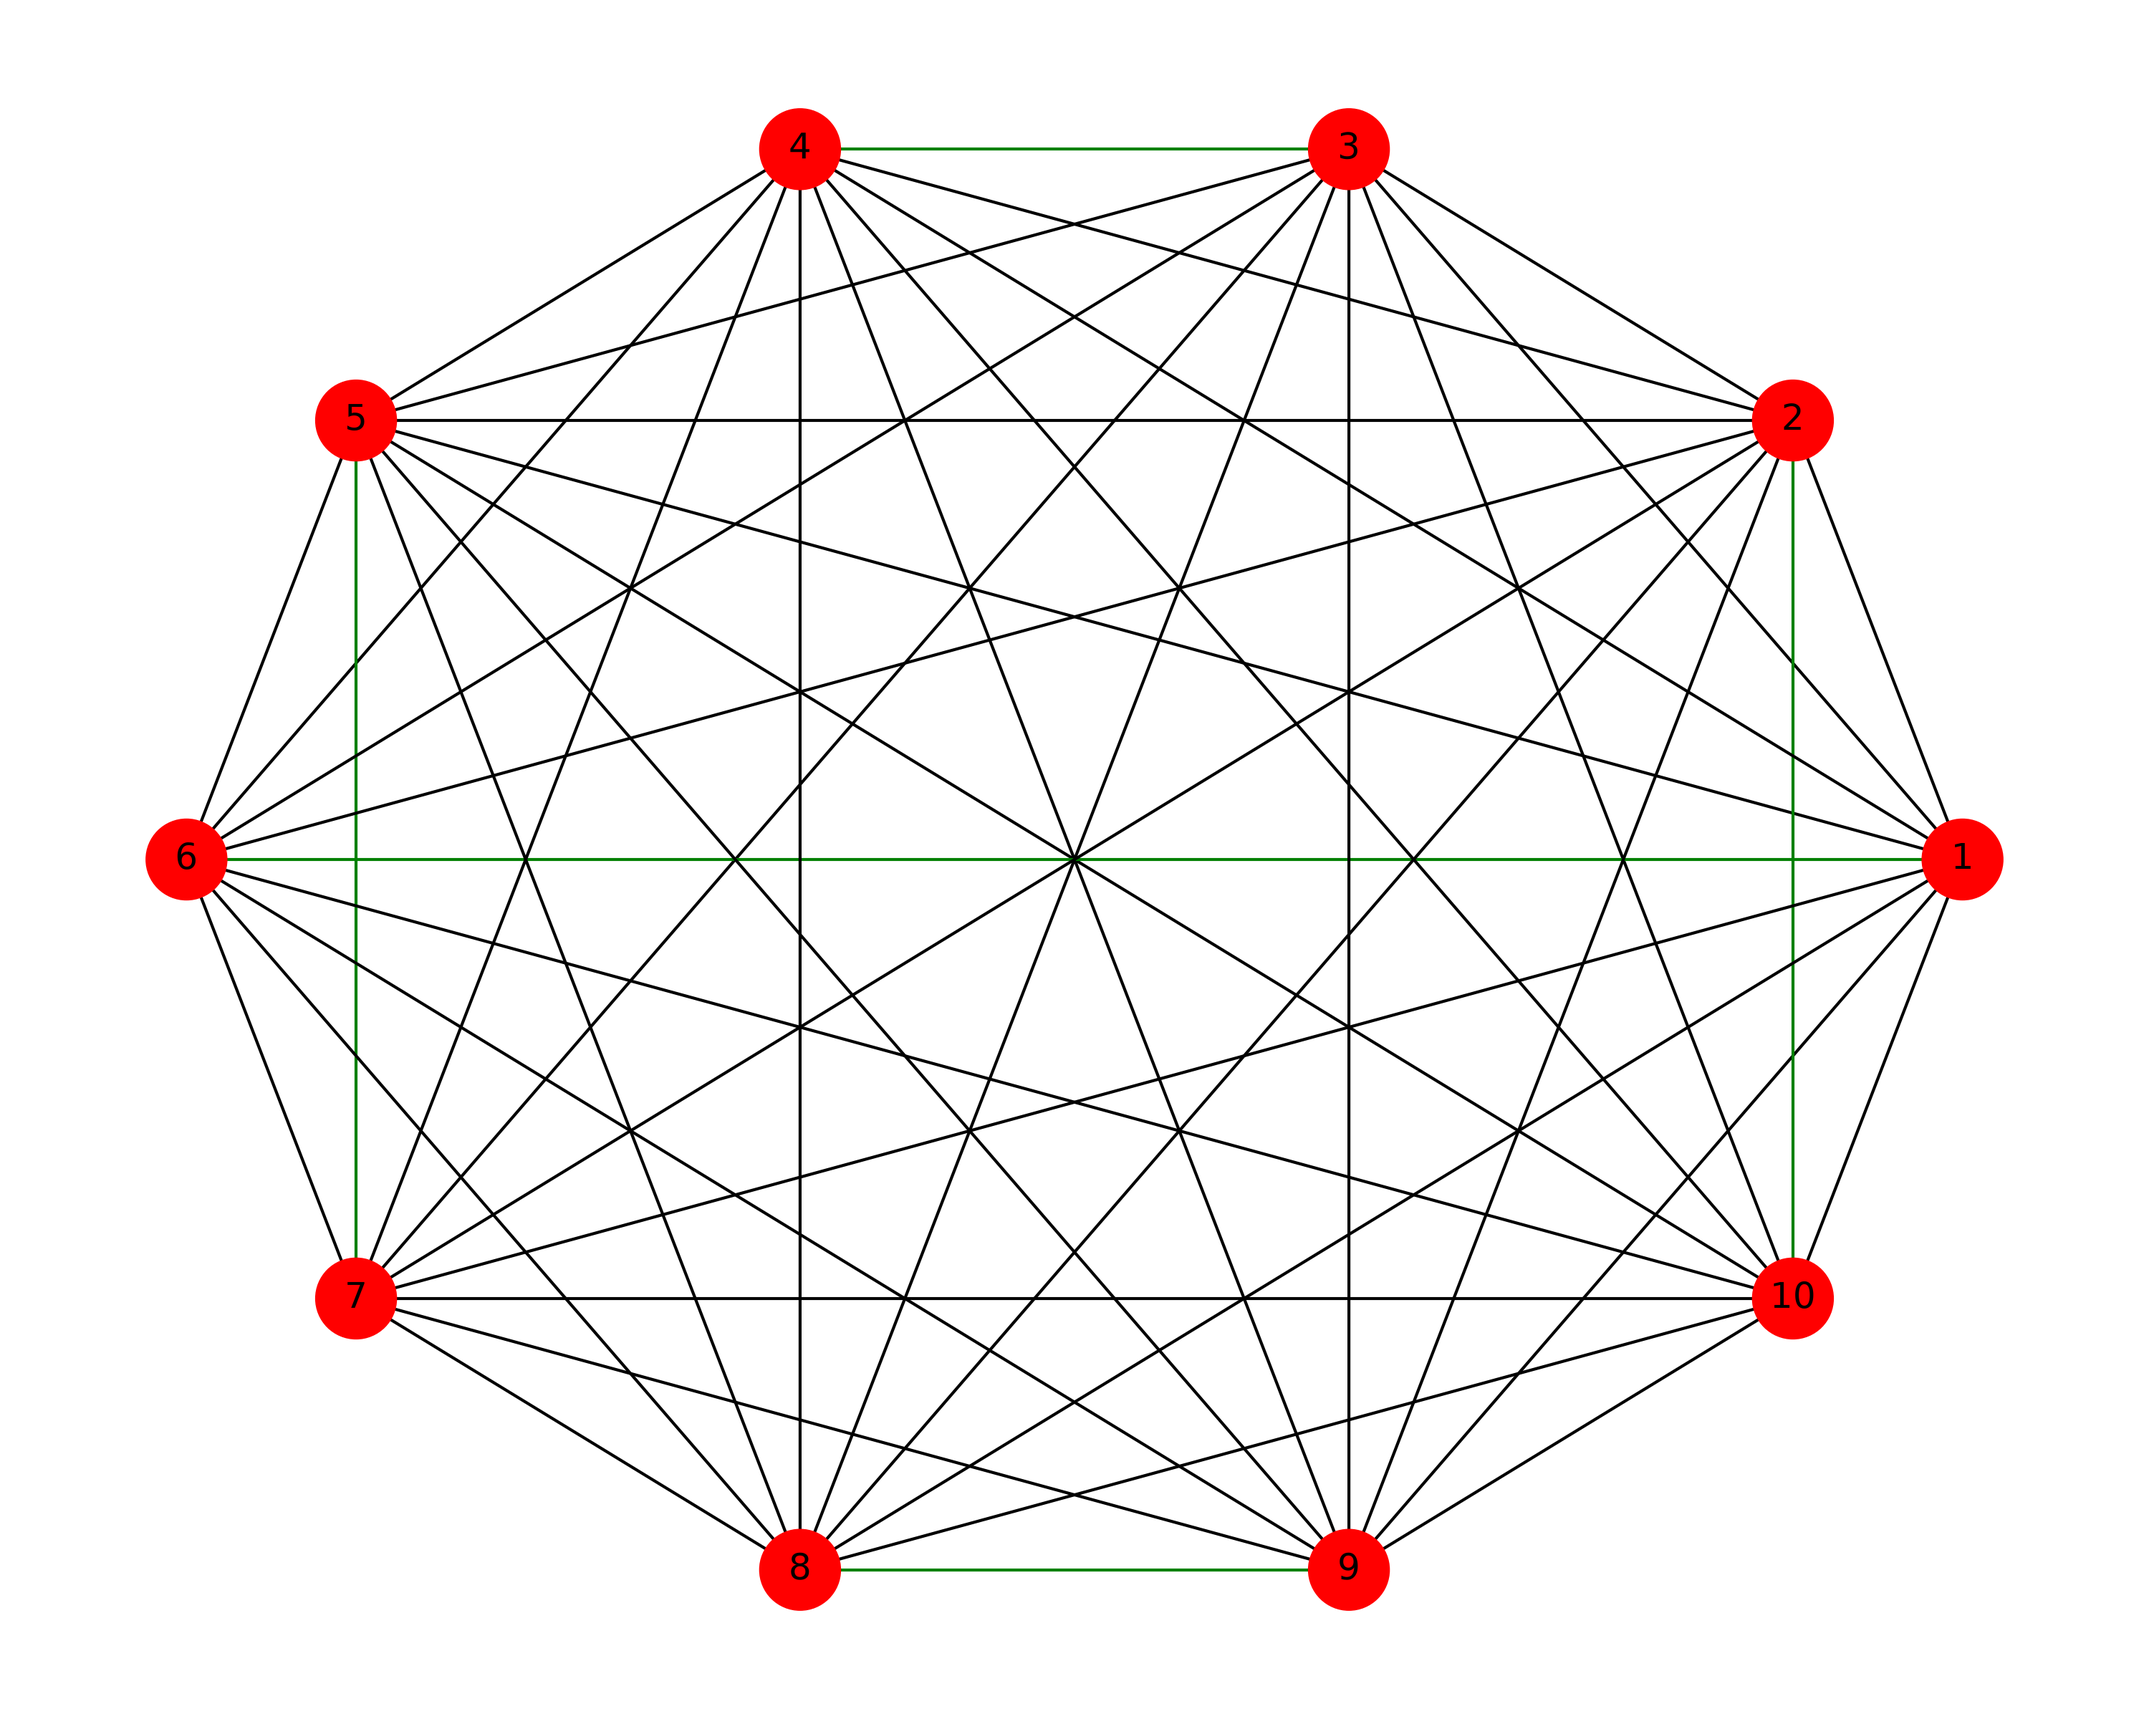
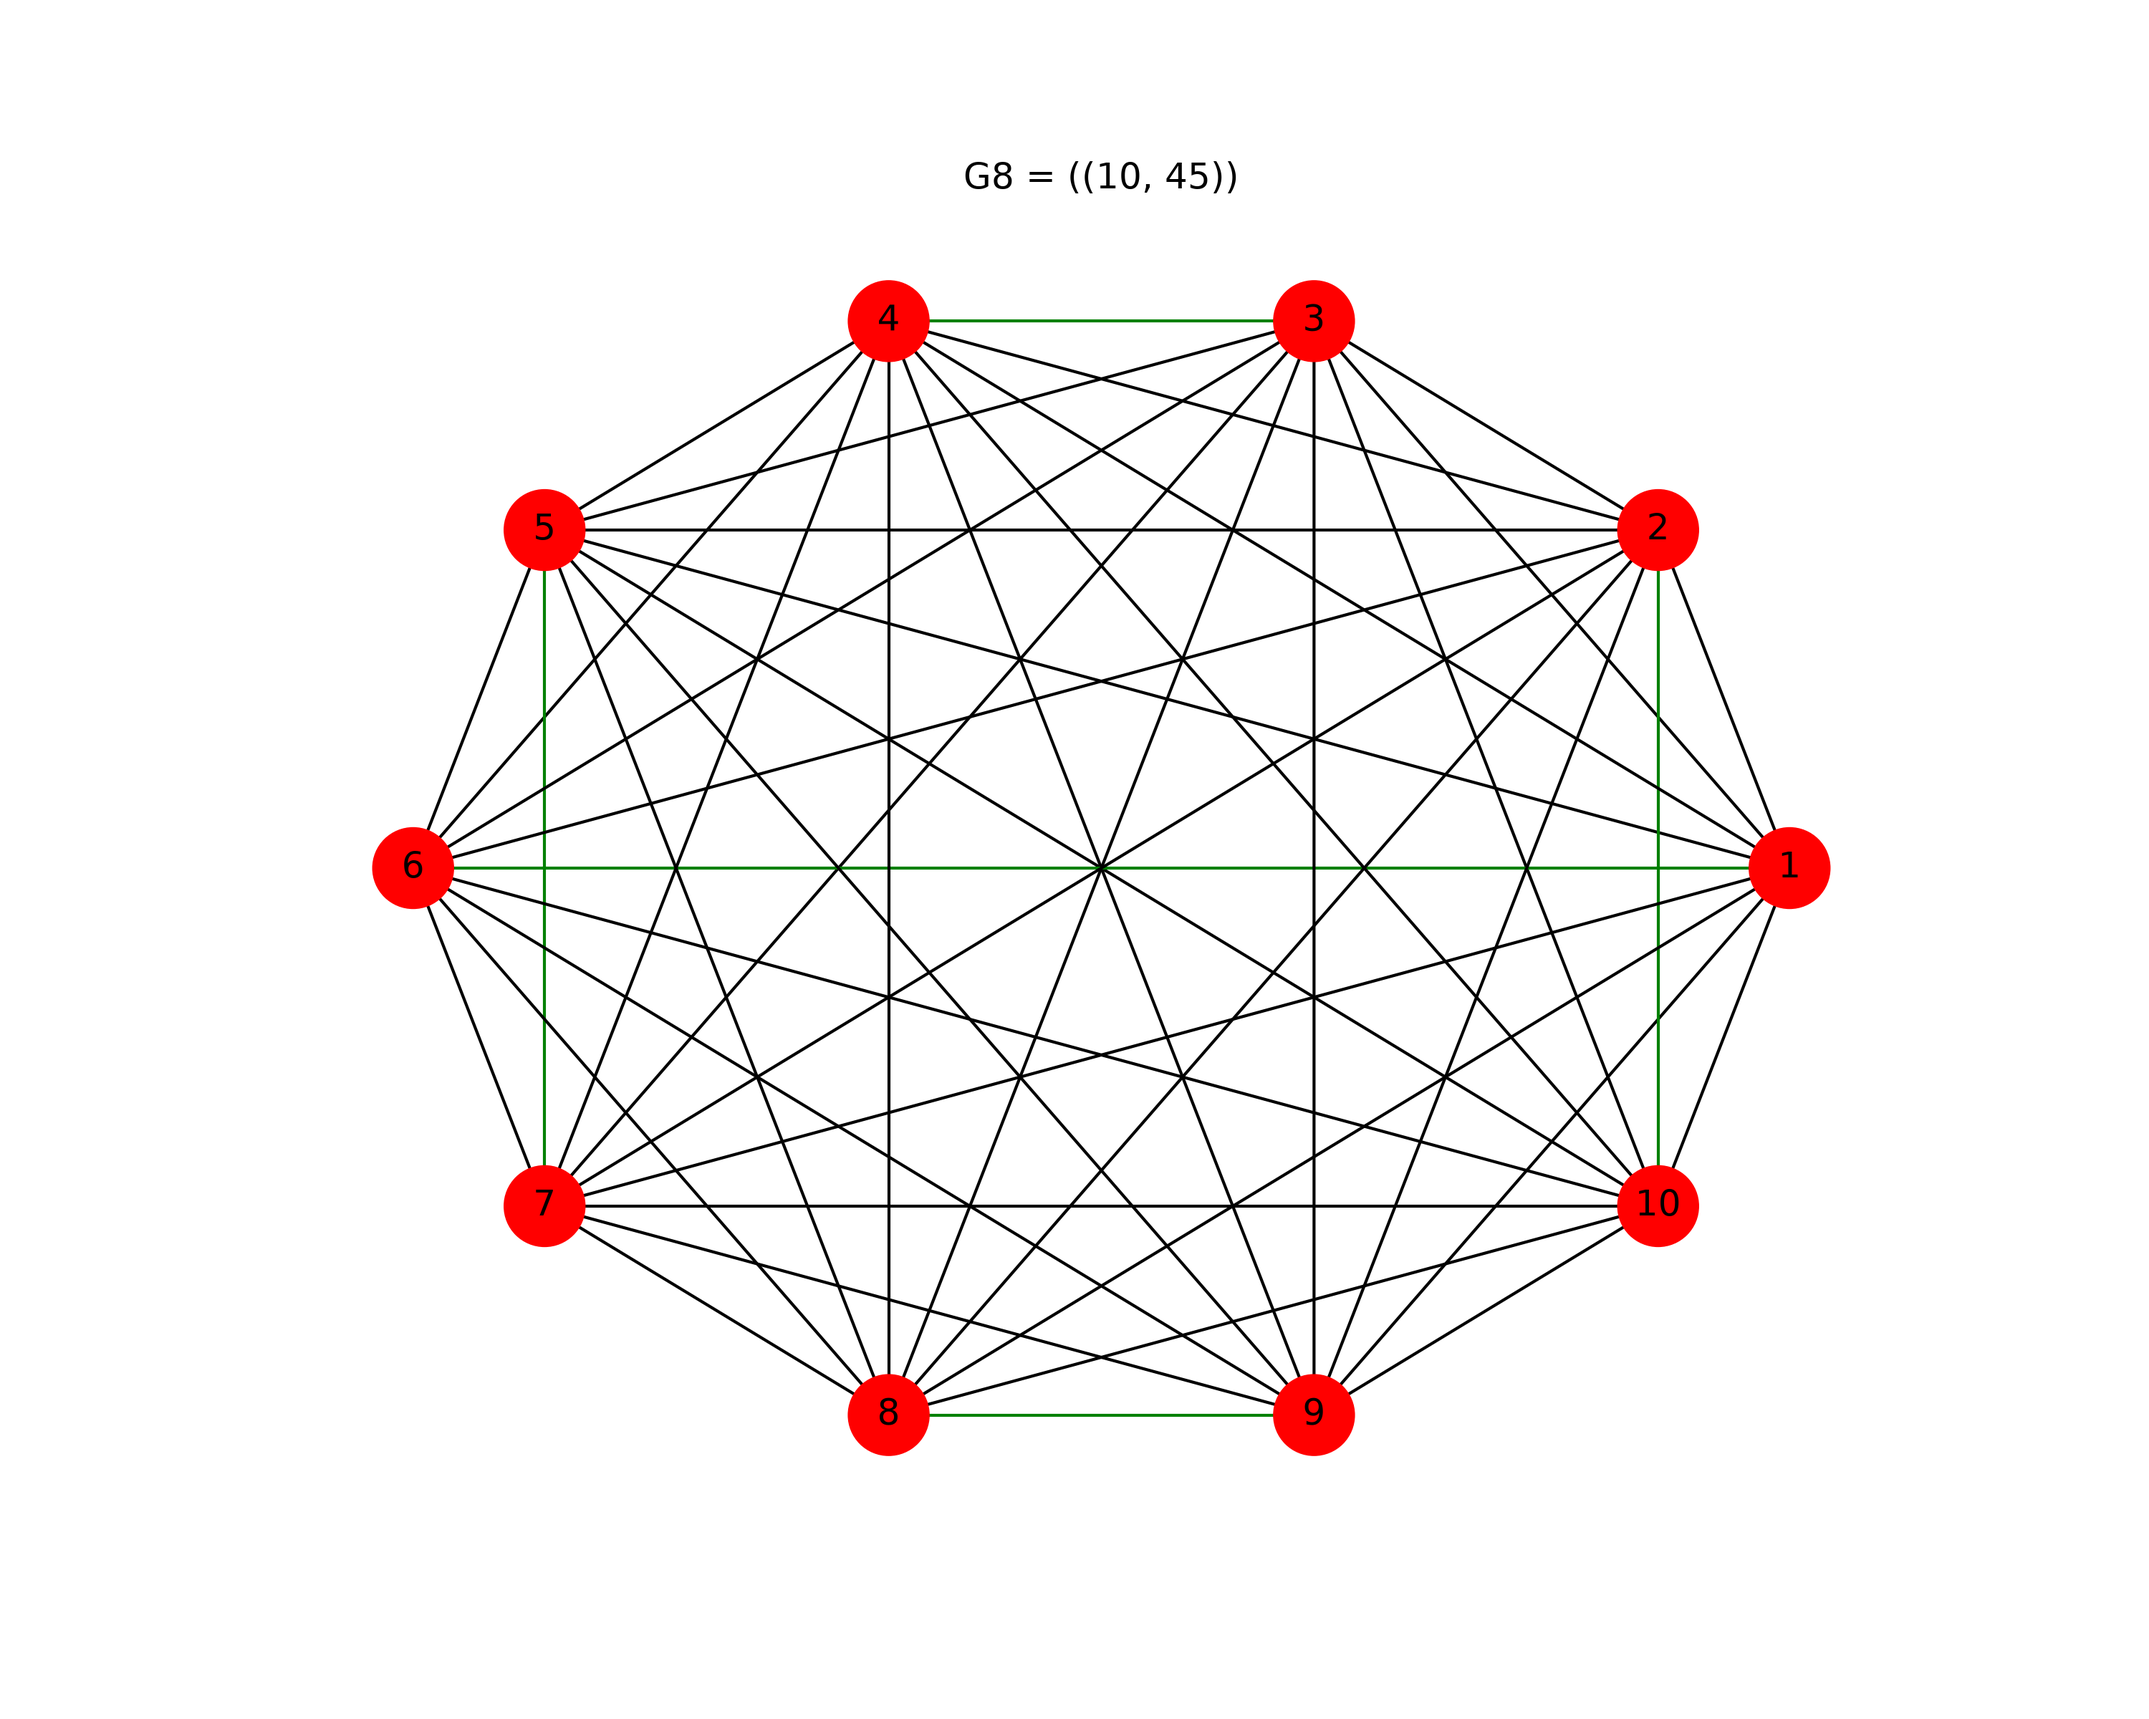
title added

diff --git a/Practical_2/approximation_vc.py b/Practical_2/approximation_vc.py
@@ -67,11 +67,12 @@ def create_graph(match, vc, n, m, i, edges):
 
     plt.figure(figsize=(10, 8))
     pos = nx.circular_layout(G)
+    plt.title(f'G{i} = ({n,m})')
     nx.draw(G, pos, with_labels=True, node_color=node_color, edge_color=edge_color, edgelist = edges, node_size=700)
+
     
     output_file = os.path.join('output', f"graph_{i}.png")
     plt.savefig(output_file,dpi=300)
-    plt.close()
     print(f"Graph {i} saved to {output_file}")
 
 
